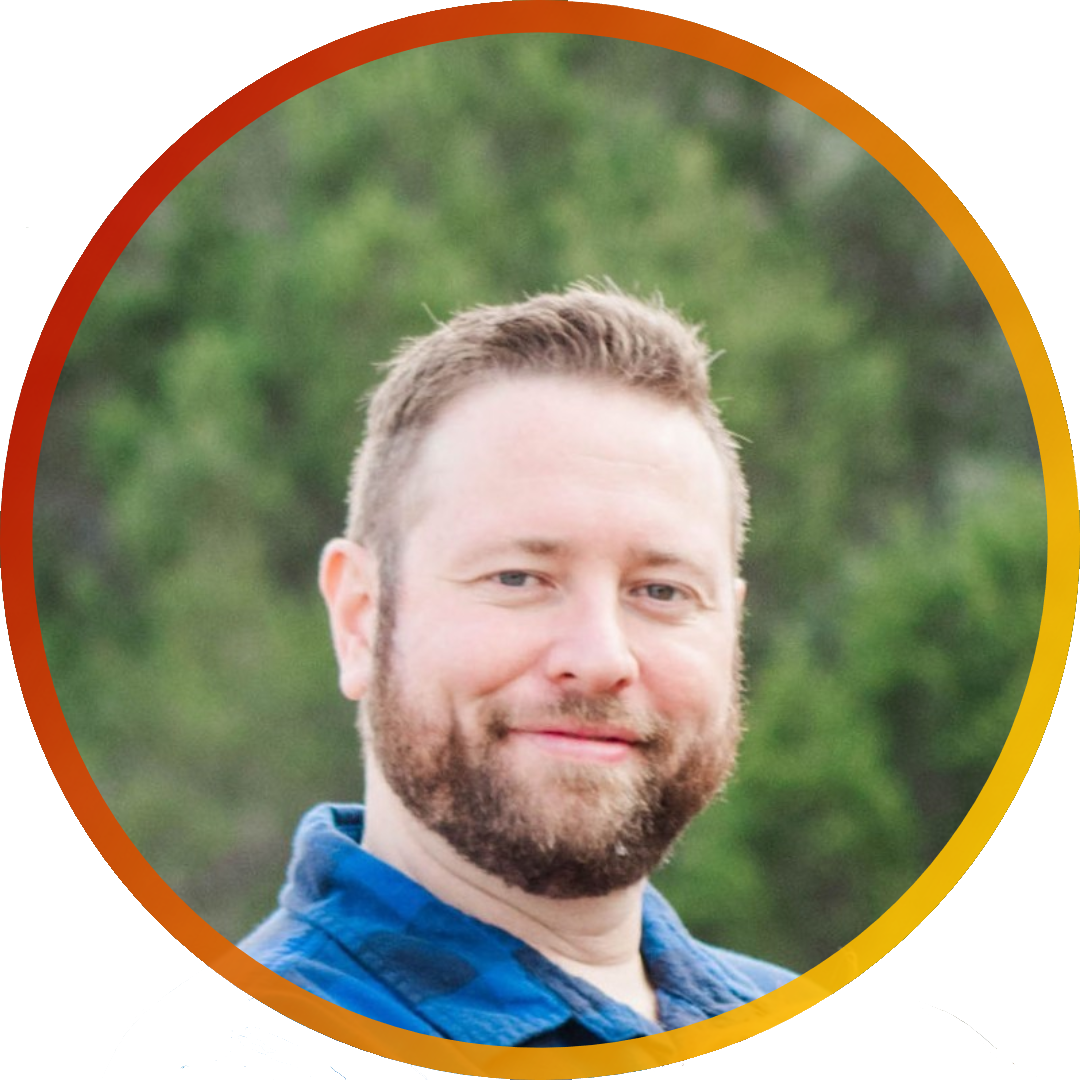
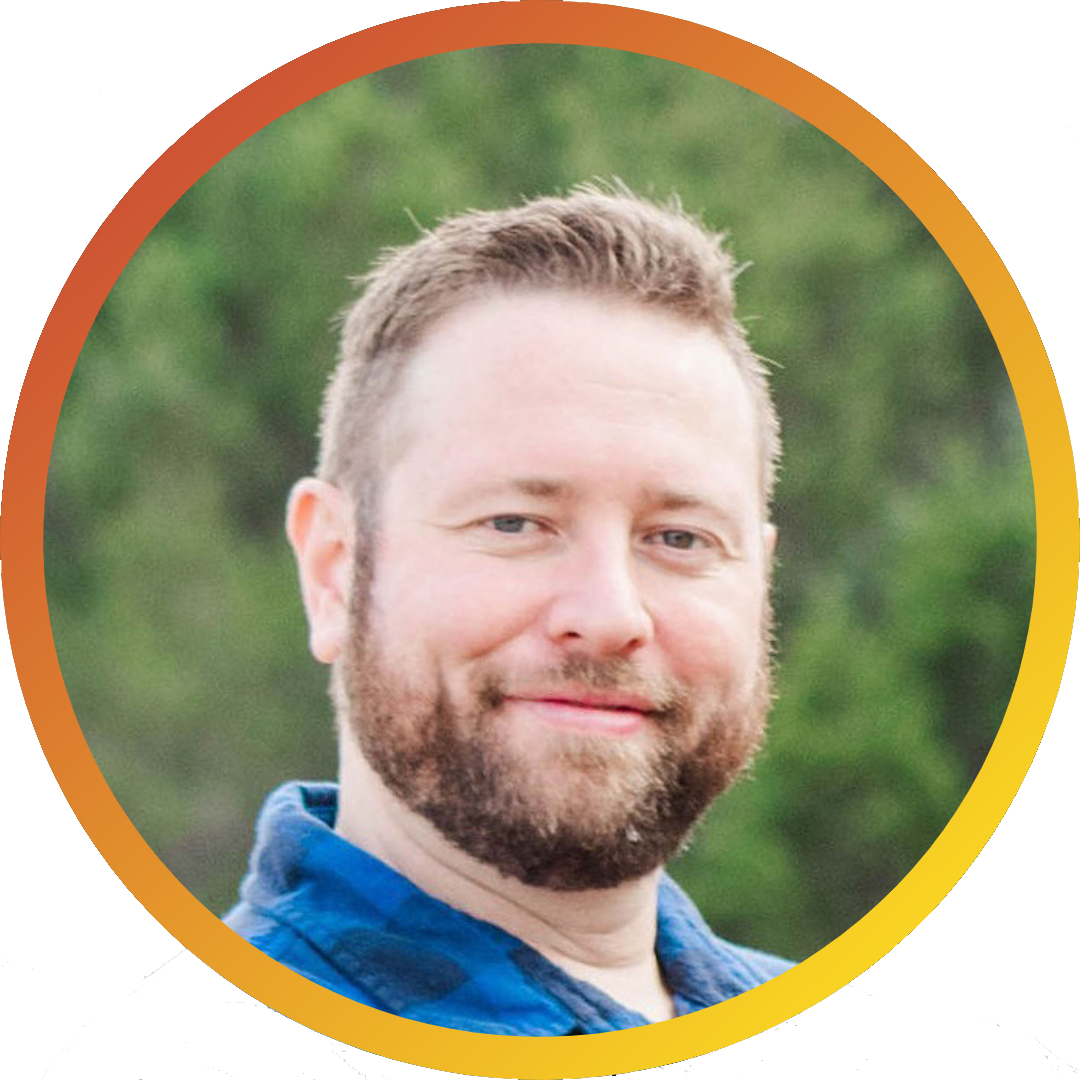
Updated hero image, fixed portfolio flexboxes, added animations to nav and portfolio.

diff --git a/index.html b/index.html
@@ -12,38 +12,51 @@
 
 <body>
     <header>
+        <h1 class="title">David Tunnell</h1>
         <nav class="header">
-            <h1>David Tunnell</h1>
-            <a href="#portfolio">Portfolio</a>
-            <a href="https://stackoverflow.com/users/1524210/david-tunnell?tab=profile" target="_blank">Stack Overflow</a>
-            <a href="https://github.com/DavidTunnell" target="_blank">GitHub</a>
-            <a href="https://www.linkedin.com/in/david-tunnell-61485223/" target="_blank">LinkedIn</a>
-            <a href="#contact">Contact</a>
+            <a href="#portfolio" class="nav">Portfolio</a>
+            <a href="https://stackoverflow.com/users/1524210/david-tunnell?tab=profile" class="nav" target="_blank">Stack Overflow</a>
+            <a href="https://github.com/DavidTunnell" class="nav" target="_blank">GitHub</a>
+            <a href="https://www.linkedin.com/in/david-tunnell-61485223/" class="nav" target="_blank">LinkedIn</a>
+            <a href="#contact" class="nav">Contact</a>
         </nav>
-
-        <section class="masthead">
-            <img class="headshot" src="./assets/images/david-tunnell-profile.png">
+    </header>
+    <main>
+        <section class="hero">
+            <img class="head-shot" src="./assets/images/david-tunnell-profile.png">
             <h2>About Me</h2>
             <p>Lorem ipsum dolor sit amet consectetur adipisicing elit. Distinctio voluptatum ut earum amet reprehenderit sequi in cumque. Nulla laudantium fugit labore libero dignissimos nisi praesentium tenetur harum voluptatum, non similique?</p>
             <p>Lorem ipsum dolor sit amet consectetur adipisicing elit. Distinctio voluptatum ut earum amet reprehenderit sequi in cumque. Nulla laudantium fugit labore libero dignissimos nisi praesentium tenetur harum voluptatum, non similique? Lorem ipsum,
                 dolor sit amet consectetur adipisicing elit. Quas odio, necessitatibus, eius maxime praesentium consequuntur veniam dolorum minus id nesciunt tempore sequi facilis. Assumenda aperiam officia labore officiis quod aliquid.</p>
         </section>
-    </header>
-    <main>
-        <!-- TODO: add links that dont break css, made less wide to look better on page, update mouseover effect. Improve padding/margin for section -->
-        <!-- look at this: https://stackoverflow.com/questions/42970452/flexbox-a-tag-breaks-layout -->
-        <section class="portfolio">
+        <!-- TODO: update mouseover effect.-->
+        <section id="portfolio">
             <h2>Portfolio</h2>
-            <div class="container">
-                <div class="item project-one">Example Project 1 with Image Background</div>
-                <div class="item project-two">Example Project 2 with Image Background</div>
-                <div class="item project-three">Example Project 3 with Color Background</div>
-                <div class="item project-four">Example Project 4 with Color Background</div>
-                <div class="item project-five">Example Project 5 with Color Background</div>
-                <div class="item project-six">Example Project 6 with Image Background</div>
+            <div class="outer-container">
+                <div class="container">
+                    <a href="" class="item project-one">
+                        <div>Example Project 1 with Image Background</div>
+                    </a>
+                    <a href="" class="item project-two">
+                        <div>Example Project 2 with Image Background</div>
+                    </a>
+                    <a href="" class="item project-three">
+                        <div>Example Project 3 with Color Background</div>
+                    </a>
+                    <a href="" class="item project-four">
+                        <div>Example Project 4 with Color Background</div>
+                    </a>
+                    <a href="" class="item project-five">
+                        <div>Example Project 5 with Color Background</div>
+                    </a>
+                    <a href="" class="item project-six">
+                        <div>Example Project 6 with Image Background</div>
+                    </a>
+
+                </div>
             </div>
         </section>
-        <section class="contact">
+        <section id="contact">
             <h2>Contact Me</h2>
             <p>Lorem ipsum dolor sit amet consectetur adipisicing elit. Neque nesciunt illum porro omnis magni optio molestiae non, fugit obcaecati esse. Praesentium soluta, exercitationem nam deleniti doloremque et culpa explicabo eligendi.</p>
         </section>

diff --git a/assets/css/style.css b/assets/css/style.css
@@ -1,83 +1,120 @@
+/* Global */
+
 * {
     font-family: "Montserrat", -apple-system, BlinkMacSystemFont, "Segoe UI", Roboto, "Helvetica Neue", Arial, "Noto Sans", sans-serif, "Apple Color Emoji", "Segoe UI Emoji", "Segoe UI Symbol", "Noto Color Emoji";
     color: white;
+    font-size: 30px;
+    text-align: center;
 }
 
 
-/* Need to consolidate css and comment */
+/* Elements */
 
 a {
     text-decoration: none;
-    padding: 0.7em;
+    position: relative;
 }
 
 nav {
     text-align: center;
+    padding-bottom: 3em;
 }
 
 h1 {
-    font-size: 2em;
+    font-size: 2.1em;
+}
+
+h2 {
+    font-size: 1.60em;
+}
+
+html {
+    scroll-behavior: smooth;
+}
+
+
+/* Media Queries */
+
+@media screen and (prefers-reduced-motion: reduce) {
+    html {
+        scroll-behavior: auto;
+    }
+}
+
+
+/* Classes */
+
+.nav {
+    padding: 0.7em;
+}
+
+
+/* Link Underline Animation inspired from: https://tobiasahlin.com/blog/css-trick-animating-link-underlines/ */
+
+.nav::before {
+    content: "";
+    position: absolute;
+    width: 100%;
+    height: 5px;
+    bottom: 5px;
+    left: 0;
+    background-color: white;
+    visibility: hidden;
+    transform: scaleX(0);
+    transition: all 0.2s ease-in-out 0s;
+}
+
+.nav:hover::before {
+    visibility: visible;
+    transform: scaleX(0.9);
+}
+
+.title {
+    background: #CD5334;
+    margin: 0%;
+    padding-top: 0.6em;
+    padding-bottom: 0.25em;
 }
 
 .header {
     padding: 20px;
     background: #CD5334;
-    font-size: 30px;
     padding-bottom: 1em;
 }
 
-.masthead {
+.hero {
     padding: 20px;
     background: #546F91;
-    font-size: 30px;
-    text-align: center;
 }
 
-.headshot {
+.head-shot {
     width: 25%;
-    height: auto;
-    margin-top: 1em;
-}
-
-.portfolio {
-    padding: 20px;
-    background: #2E282A;
-    font-size: 30px;
-    text-align: center;
-}
-
-.contact {
-    padding: 20px;
-    background: #CD5334;
-    font-size: 30px;
-    text-align: center;
+    margin-top: 1.25em;
 }
 
 .primary-footer {
     padding: 20px;
     background: #546F91;
-    font-size: 30px;
-    text-align: center;
 }
 
 .copyright {
     padding: 20px;
     background: #2E282A;
-    font-size: 30px;
-    text-align: center;
 }
 
 
-/* https://tobiasahlin.com/blog/common-flexbox-patterns/ */
+/* Portfolio Layout inspired from: https://tobiasahlin.com/blog/common-flexbox-patterns/ */
 
-
-/* https://stackoverflow.com/questions/25311541/how-to-vertically-align-text-inside-a-flexbox */
+.outer-container {
+    display: flex;
+    justify-content: center;
+    margin: 2em;
+}
 
 .container {
     display: flex;
     flex-wrap: wrap;
-    justify-content: center;
-    /* width: 85%; */
+    width: 85%;
 }
 
 .item {
@@ -89,12 +126,13 @@ h1 {
     justify-content: center;
     background-repeat: no-repeat;
     background-position: 50% 50%;
+    transition: transform .05s;
+    position: static;
 }
 
 .item:hover {
-    -moz-box-shadow: 0 0 100px #ccc;
-    -webkit-box-shadow: 0 0 100px #ccc;
-    box-shadow: 0 0 100px #ccc;
+    box-shadow: rgba(0, 0, 0, 0.56) 0px 22px 70px 4px;
+    transform: scale(1.08);
 }
 
 .item:nth-child(3n) {
@@ -126,4 +164,17 @@ h1 {
     background-image: url("../images/bg-placeholder3.jpg");
     flex-basis: 96%;
     background-position: 50% 20%;
+}
+
+
+/* IDs */
+
+#portfolio {
+    padding: 20px;
+    background: #2E282A;
+}
+
+#contact {
+    padding: 20px;
+    background: #CD5334;
 }
